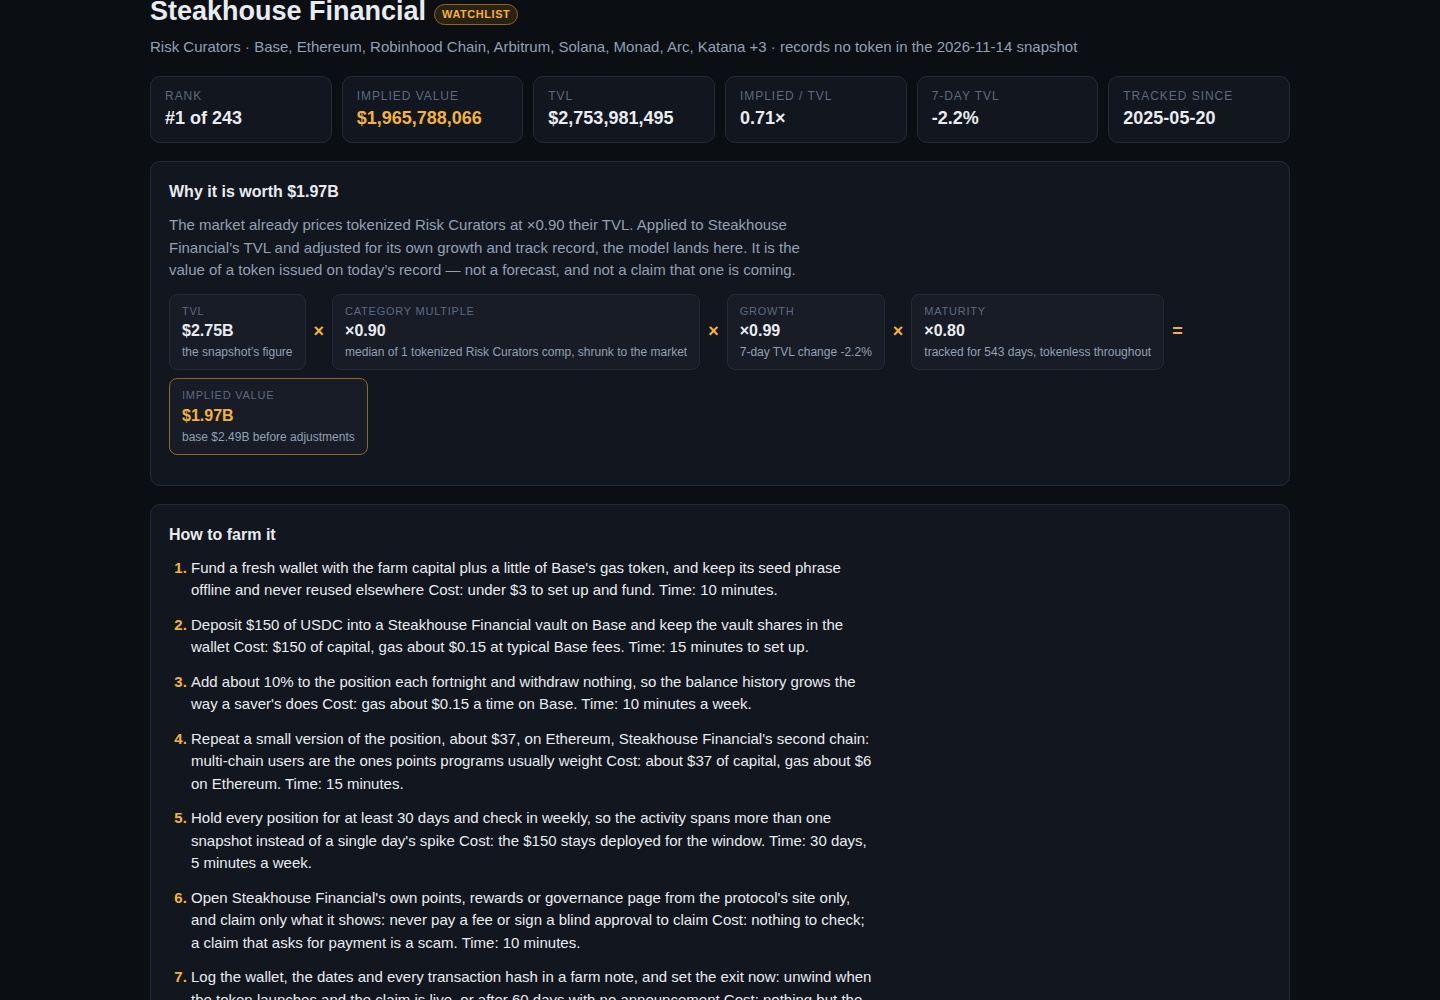
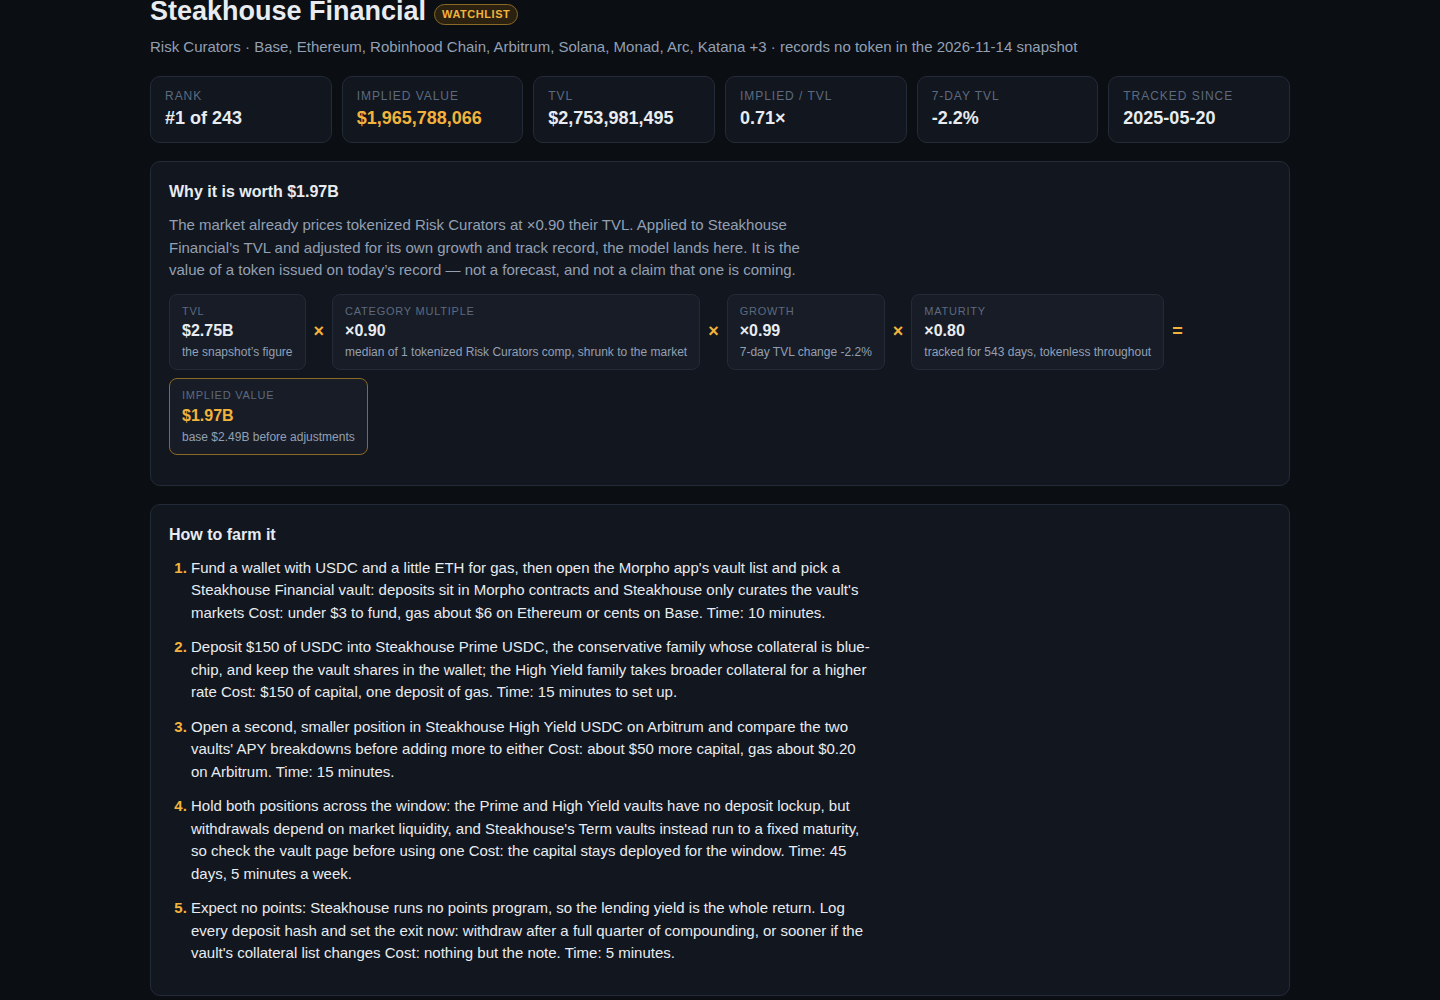
Per-protocol farm plans for the researched watchlist rows
Farm plans for nine watchlist protocols (Steakhouse, Gauntlet, Nonce,
RockawayX, Veda, USDD, Hyperithm, K3, Clearstar) now name the real
vaults, points programs and mint routes verified against each
protocol's own site/docs. Valuation is unchanged and stays fully
computed; unverifiable rows keep the derived category plan.

Changed region(s): [[0.125, 0.558, 0.875, 1.0]]

diff --git a/lib/model.ts b/lib/model.ts
@@ -501,12 +501,270 @@ function actionsFor(p: SnapshotProtocol, capital: number, chain: string): { open
 }
 
 /**
- * A protocol's farm plan: five to seven steps, each an action with a cost and a time. The plan is
- * derived from the protocol's own record (category, chains, TVL, age), never from a hand-written
- * list of names: the category picks the two moves, the first chain prices the gas, a second chain
- * earns its own step, and the protocol's age sets the qualifying window.
+ * Hand-checked farm plans for the watchlist rows whose real product could be verified against the
+ * protocol's own site, docs or app (researched November 2026). The valuation above never reads
+ * this table — pricing stays fully computed from the snapshot — but a farm plan is advice, and
+ * advice that names the wrong vault is worse than a generic plan, so where a protocol's actual
+ * vaults, points program or mint mechanism are public, the plan names them. Rows without an entry
+ * here keep the derived category plan below; a protocol whose route could not be verified (Hive
+ * Protocol's identity, for one) gets no entry rather than an invented one.
+ */
+const FARM_OVERRIDES: Record<string, FarmStep[]> = {
+  'steakhouse-financial': [
+    {
+      text: "Fund a wallet with USDC and a little ETH for gas, then open the Morpho app's vault list and pick a Steakhouse Financial vault: deposits sit in Morpho contracts and Steakhouse only curates the vault's markets",
+      cost: 'under $3 to fund, gas about $6 on Ethereum or cents on Base',
+      time: '10 minutes',
+    },
+    {
+      text: 'Deposit $150 of USDC into Steakhouse Prime USDC, the conservative family whose collateral is blue-chip, and keep the vault shares in the wallet; the High Yield family takes broader collateral for a higher rate',
+      cost: '$150 of capital, one deposit of gas',
+      time: '15 minutes to set up',
+    },
+    {
+      text: 'Open a second, smaller position in Steakhouse High Yield USDC on Arbitrum and compare the two vaults\' APY breakdowns before adding more to either',
+      cost: 'about $50 more capital, gas about $0.20 on Arbitrum',
+      time: '15 minutes',
+    },
+    {
+      text: 'Hold both positions across the window: the Prime and High Yield vaults have no deposit lockup, but withdrawals depend on market liquidity, and Steakhouse\'s Term vaults instead run to a fixed maturity, so check the vault page before using one',
+      cost: 'the capital stays deployed for the window',
+      time: '45 days, 5 minutes a week',
+    },
+    {
+      text: 'Expect no points: Steakhouse runs no points program, so the lending yield is the whole return. Log every deposit hash and set the exit now: withdraw after a full quarter of compounding, or sooner if the vault\'s collateral list changes',
+      cost: 'nothing but the note',
+      time: '5 minutes',
+    },
+  ],
+  gauntlet: [
+    {
+      text: 'Fund a wallet with USDC and gas on Arbitrum, then open Gauntlet\'s vault list in the Morpho app: its vaults are organised by mandate — Prime takes blue-chip collateral only, Balanced mixes in higher-yield markets, Frontier chases maximum yield on mid-cap collateral',
+      cost: 'under $3 to fund, gas about $0.20 on Arbitrum',
+      time: '10 minutes',
+    },
+    {
+      text: 'Deposit $150 of USDC into Gauntlet USDC Balanced on Morpho and keep the vault shares; stay in the Prime or Balanced mandates unless the Frontier risk is a deliberate choice',
+      cost: '$150 of capital, one deposit of gas',
+      time: '15 minutes to set up',
+    },
+    {
+      text: 'Add a second position in a Gauntlet vault on Kamino, its Solana line, depositing USDC there so the farm spans both of the curator\'s platforms',
+      cost: 'about $50 of capital, gas under $0.10 on Solana',
+      time: '15 minutes',
+    },
+    {
+      text: 'Hold across the window and re-check the mandate\'s market list monthly: a curator vault\'s risk is the markets it lends into, and Gauntlet rebalances them as conditions change',
+      cost: 'the capital stays deployed for the window',
+      time: '45 days, 5 minutes a week',
+    },
+    {
+      text: 'Expect no points: Gauntlet has no token and no points program, so lending yield is the whole return. Log every hash and exit by withdrawing to USDC once the window closes',
+      cost: 'nothing but the note',
+      time: '5 minutes',
+    },
+  ],
+  'nonce-capital': [
+    {
+      text: 'Fund a wallet with ETH-side assets and gas on Ethereum: Nonce Capital has no retail app of its own — it curates yield strategies for ether.fi on Veda\'s vault infrastructure, so the farm runs through ether.fi\'s app, not a Nonce page',
+      cost: 'under $3 to fund, gas about $6 on Ethereum',
+      time: '10 minutes',
+    },
+    {
+      text: 'Deposit $100 into an ether.fi Liquid vault from its ETH, BTC or USD line, the product family Nonce curates strategies for, and keep the Liquid vault tokens in the wallet',
+      cost: '$100 of capital, one deposit of gas',
+      time: '15 minutes to set up',
+    },
+    {
+      text: 'Read the vault\'s own page for its curator and strategy notes before adding more: which Liquid vaults Nonce curates is disclosed only in general terms, so size the position as an ether.fi position, not a Nonce one',
+      cost: 'nothing to read',
+      time: '10 minutes',
+    },
+    {
+      text: 'Hold the Liquid tokens across the window and claim whatever the position accrues from ether.fi\'s own rewards page, never from a link in a message or a search ad',
+      cost: 'the capital stays deployed for the window',
+      time: '45 days, 5 minutes a week',
+    },
+    {
+      text: 'Expect no Nonce points: any points on this position belong to ether.fi\'s or Veda\'s programs, not to Nonce. Log every hash and exit by redeeming the Liquid tokens when the window closes',
+      cost: 'nothing but the note',
+      time: '5 minutes',
+    },
+  ],
+  rockawayx: [
+    {
+      text: 'Fund a wallet with USDC and ETH gas, then open the Morpho vault list filtered to RockawayX: its public line is rxUSDCp (Prime), rxUSDCy (Yield) and a wETH vault on Ethereum, plus an RWA vault on Kamino',
+      cost: 'under $3 to fund, gas about $6 on Ethereum',
+      time: '10 minutes',
+    },
+    {
+      text: 'Deposit $100 of USDC into RockawayX USDC Prime, rxUSDCp, which lends against cbBTC, WBTC and wstETH at a 0% performance fee, and keep the vault token in the wallet',
+      cost: '$100 of capital, one deposit of gas',
+      time: '15 minutes to set up',
+    },
+    {
+      text: 'Add a smaller position in USDC Yield, rxUSDCy, whose markets include RWA-backed collateral such as Maple\'s syrupUSDC, at a 5% performance fee, and compare the two vaults\' yields monthly',
+      cost: 'about $50 more capital, one deposit of gas',
+      time: '15 minutes',
+    },
+    {
+      text: 'Optionally repeat a small version on Solana: deposit USDC into the RockawayX RWA Vault on Kamino, which allocates across OnRe, Huma, Figure and Solstice. Skip the Tori predeposit vault unless a lockup until its phase transition is acceptable',
+      cost: 'about $25 of capital, gas under $0.10 on Solana',
+      time: '15 minutes',
+    },
+    {
+      text: 'Expect no RockawayX points: the yield is the return, and the points the Tori vault quotes belong to Tori. Log every hash and exit by withdrawing from each vault when the window closes',
+      cost: 'nothing but the note',
+      time: '5 minutes',
+    },
+  ],
+  veda: [
+    {
+      text: 'Fund a wallet with ETH-side assets and gas, then open the Veda Points dashboard on Veda\'s own site: Veda is vault infrastructure (its BoringVault design powers products such as ether.fi Liquid and Lombard\'s DeFi Vault), and the dashboard lists which activities currently earn Veda Points',
+      cost: 'under $3 to fund, gas about $6 on Ethereum',
+      time: '10 minutes',
+    },
+    {
+      text: 'Deposit $150 into a qualifying Veda-powered vault from that list — the documented example is Lombard\'s DeFi Vault — and keep the vault token (LBTCv for the Lombard vault) in the wallet',
+      cost: '$150 of capital, one deposit of gas',
+      time: '15 minutes to set up',
+    },
+    {
+      text: 'Check the dashboard monthly and stay in listed activities only: points accrue while the position sits in a qualifying vault, and a vault that leaves the list stops earning',
+      cost: 'nothing to check',
+      time: '10 minutes a month',
+    },
+    {
+      text: 'Hold the position across the whole window rather than rotating weekly: the program rewards sustained participation, and US users are restricted from the points campaign, so confirm eligibility on the dashboard first',
+      cost: 'the capital stays deployed for the window',
+      time: '60 days, 5 minutes a week',
+    },
+    {
+      text: 'Log the wallet, the vault and every hash, and set the exit now: unwind when Veda\'s token launches and any claim is live on Veda\'s own site, or after the window with no announcement. A claim that asks for a fee or a blind approval is a scam',
+      cost: 'nothing but the note',
+      time: '5 minutes',
+    },
+  ],
+  usdd: [
+    {
+      text: 'Fund a wallet with ETH and gas on Ethereum, then open USDD\'s own app at app.usdd.io/eth: USDD is the TRON DAO Reserve\'s over-collateralised stablecoin, issued against collateral in its ETH Vault and WBTC Vault',
+      cost: 'under $3 to fund, gas about $6 on Ethereum',
+      time: '10 minutes',
+    },
+    {
+      text: 'Deposit ETH as collateral in the ETH Vault and mint about $150 of USDD against it, keeping the collateral ratio comfortably above the liquidation line the vault shows',
+      cost: 'the ETH collateral, one mint of gas',
+      time: '15 minutes to set up',
+    },
+    {
+      text: 'Deposit the minted USDD into USDD Earn and hold the sUSDD receipt: Earn pays the protocol\'s savings rate (about 4% base APY in its recent reporting) with no lockup, so the position can be unwound at any time',
+      cost: 'one deposit of gas',
+      time: '10 minutes',
+    },
+    {
+      text: 'Check the collateral ratio weekly and top the vault up if ETH falls: a CDP position is worked by defending its liquidation price, not by adding more debt',
+      cost: 'the capital stays deployed for the window',
+      time: '30 days, 5 minutes a week',
+    },
+    {
+      text: 'Expect no points and no airdrop: USDD is already the token, so the Earn rate is the whole return. Log every hash and exit by repaying the mint and withdrawing the collateral, or by redeeming sUSDD back to USDD',
+      cost: 'nothing but the note',
+      time: '5 minutes',
+    },
+  ],
+  hyperithm: [
+    {
+      text: 'Fund a wallet with USDC on Solana and a little SOL for gas: Hyperithm is a Tokyo and Seoul asset manager whose onchain line is curator vaults, and its most accessible one is the Hyperithm USDC Apex Vault on Kamino',
+      cost: 'under $3 to fund, gas under $0.10 on Solana',
+      time: '10 minutes',
+    },
+    {
+      text: 'Deposit $100 of USDC into the USDC Apex Vault on Kamino and keep the vault shares in the wallet; the vault lends the USDC out under Hyperithm\'s market-neutral management',
+      cost: '$100 of capital, one deposit of gas',
+      time: '15 minutes to set up',
+    },
+    {
+      text: 'Optionally open the Monad side instead or as well: Hyperithm\'s vault on Accountable\'s YieldApp takes USDC and issues the aHYPER share token, which also serves as collateral in Morpho markets on Monad',
+      cost: 'about $50 of capital, gas about $0.40 on Monad',
+      time: '15 minutes',
+    },
+    {
+      text: 'Hold across the window and check the vault page before adding more: the lockup and withdrawal terms are set per vault and are not stated in Hyperithm\'s public materials, so confirm them in the app first',
+      cost: 'the capital stays deployed for the window',
+      time: '45 days, 5 minutes a week',
+    },
+    {
+      text: 'Expect no points: no Hyperithm points program is public, so the strategy yield is the whole return. Log every hash and exit by withdrawing from the vault when the window closes',
+      cost: 'nothing but the note',
+      time: '5 minutes',
+    },
+  ],
+  'k3-capital': [
+    {
+      text: 'Fund a wallet with the deposit asset and gas on Ethereum: K3 Capital is a delta-neutral fund that also runs public vaults through its app, routing deposits into strategies on venues such as Liquity, Morpho and Euler',
+      cost: 'under $3 to fund, gas about $6 on Ethereum',
+      time: '10 minutes',
+    },
+    {
+      text: 'Deposit BOLD into K3\'s sBold vault, which directs the BOLD into Liquity v2\'s stability pool to earn liquidation gains, or deposit USDT into one of its Earn vaults if BOLD is not to hand, and keep the receipt tokens',
+      cost: '$100 of capital, one deposit of gas',
+      time: '15 minutes to set up',
+    },
+    {
+      text: 'Verify the vault\'s terms inside the live app before adding more: K3\'s public Q&A describes the vaults, but the per-vault lockup and fee terms are the ones the app shows at deposit time',
+      cost: 'nothing to read',
+      time: '10 minutes',
+    },
+    {
+      text: 'Hold the receipt tokens across the window and re-check the strategy allocation monthly: a routing vault\'s yield follows the venues underneath it, and K3 moves allocations as rates change',
+      cost: 'the capital stays deployed for the window',
+      time: '45 days, 5 minutes a week',
+    },
+    {
+      text: 'Expect no token points: K3\'s own Q&A says it has no publicly traded governance token, so the vault yield is the whole return. Log every hash and exit by withdrawing from the vault when the window closes',
+      cost: 'nothing but the note',
+      time: '5 minutes',
+    },
+  ],
+  clearstar: [
+    {
+      text: 'Fund a wallet with USDC and gas on Base, then open the Morpho vault list filtered to Clearstar: its vaults (the Clearstar Labs brand, operated by NovaFusion SA) come in Core, Reactor and Boring families across Base, Arbitrum and Katana',
+      cost: 'under $3 to fund, gas about $0.15 on Base',
+      time: '10 minutes',
+    },
+    {
+      text: 'Deposit $100 of USDC into Clearstar Boring USDC on Base, the conservative family at a 0% performance fee, and keep the vault shares in the wallet',
+      cost: '$100 of capital, one deposit of gas',
+      time: '15 minutes to set up',
+    },
+    {
+      text: 'For the one real incentive angle in this row, open Clearstar Core USDC on Katana instead or as well: its published APY includes KAT token rewards on top of the lending rate, unlike Clearstar\'s own points, which do not exist',
+      cost: 'about $50 more capital, gas about $0.40 on Katana',
+      time: '15 minutes',
+    },
+    {
+      text: 'Hold across the window and compare families before adding more: the Reactor vaults take a 20% performance fee for higher-yield markets, and parameter changes sit behind timelocks of days, so a vault\'s terms cannot change overnight',
+      cost: 'the capital stays deployed for the window',
+      time: '45 days, 5 minutes a week',
+    },
+    {
+      text: 'Log every deposit hash and set the exit now: withdraw to USDC when the window closes, and claim any KAT rewards only from Katana\'s or Morpho\'s own pages, never from a link in a message',
+      cost: 'nothing but the note',
+      time: '5 minutes',
+    },
+  ],
+};
+
+/**
+ * A protocol's farm plan: five to seven steps, each an action with a cost and a time. Watchlist
+ * rows with a verified product use the hand-checked plan in FARM_OVERRIDES above. Every other
+ * plan is derived from the protocol's own record (category, chains, TVL, age): the category picks
+ * the two moves, the first chain prices the gas, a second chain earns its own step, and the
+ * protocol's age sets the qualifying window.
  */
 export function farmSteps(p: SnapshotProtocol, age: number | null): FarmStep[] {
+  const override = FARM_OVERRIDES[p.slug];
+  if (override !== undefined) return override.map((s) => ({ ...s }));
   // A bridge's working chain is the far side, not Ethereum; every other protocol works on its first chain.
   const isBridge = (p.category ?? '').toLowerCase().includes('bridge');
   const chain = isBridge
